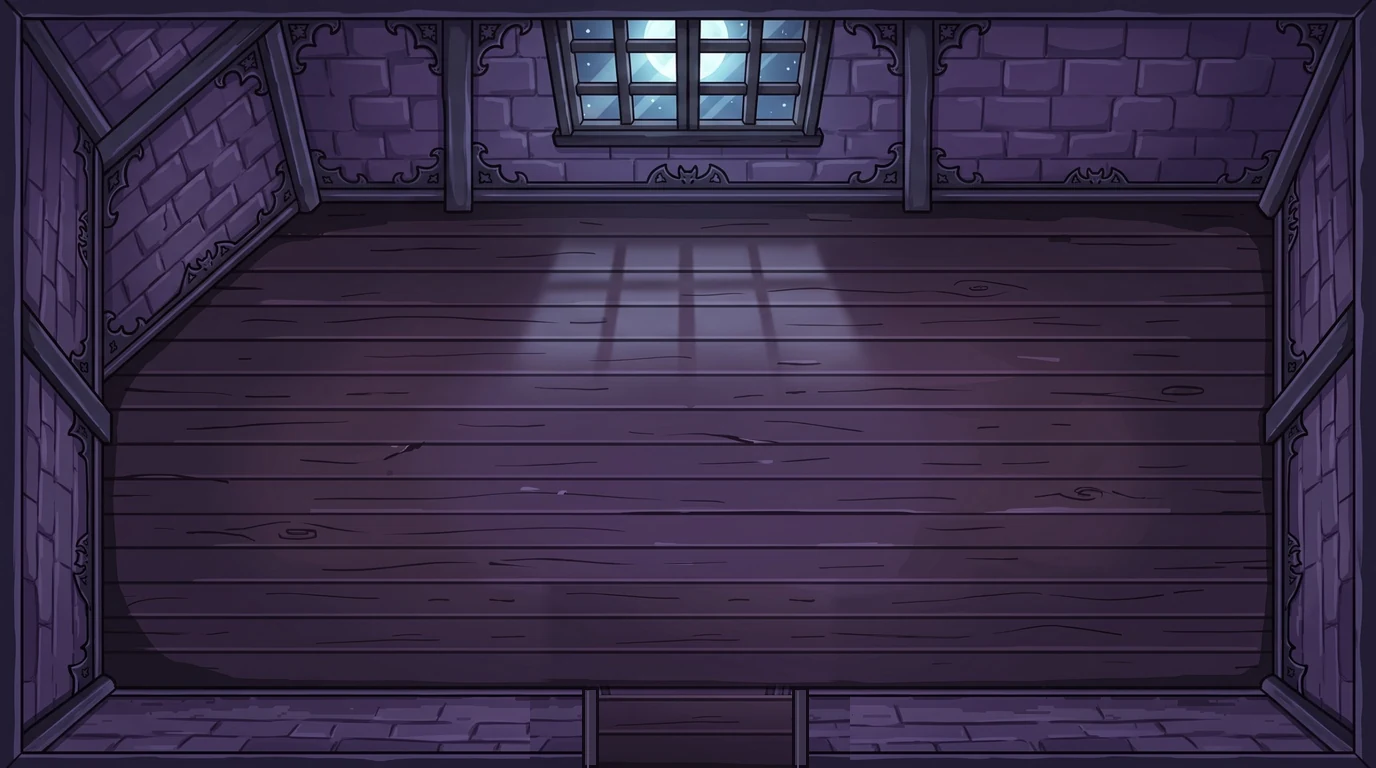
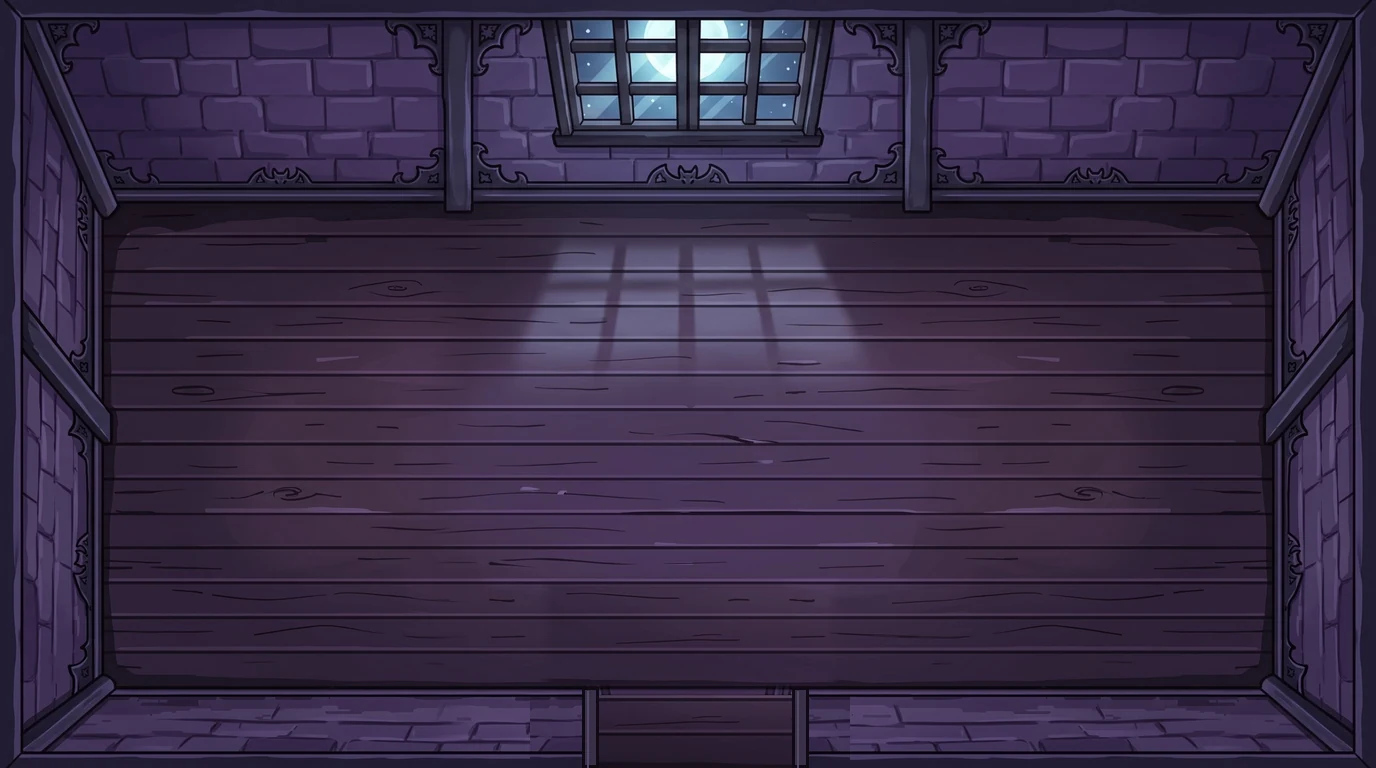
feat(jogo): quartos retangulares, quadros de insígnia comprados e Quadro dos Campeões (PROMPT-117)
- Quarto e os 6 temas retangulares e simétricos (sem a quebra no canto)
- Quadros de insígnia: sem automáticos (migração quadros_v2); comprados por 25 moedas, 1 por insígnia ganha, escolhendo a insígnia
- Quadro dos Campeões: liberado com as 26 insígnias, grade com todas elas, brilho com as 26 douradas; moldura em CSS até a imagem existir

diff --git a/css/jogo-revisao.css b/css/jogo-revisao.css
@@ -3372,3 +3372,27 @@ html.jr-deitado .venc-corpo { grid-template-columns: repeat(3, minmax(0, 1fr)); 
 .mp-exp-conf-perg { margin: 4px 0 0; text-align: center; font: 700 15px 'Inter', sans-serif; color: #fff; }
 .mp-exp-conf-botoes { display: flex; gap: 8px; justify-content: center; flex-wrap: wrap; }
 .mp-exp-conf-botoes .jr-btn { min-height: 40px; padding: 4px 14px; }
+
+/* ── 🏅 quadros comprados e 🏆 Quadro dos Campeões (PROMPT-117) ── */
+.cs-mini-quadro { position: relative; width: 46px; height: 46px; pointer-events: none; }
+.cs-mini-quadro img { width: 100%; height: 100%; object-fit: contain; }
+.cs-mini-quadro img.cs-ins { position: absolute; width: 62% !important; height: auto; transform: translate(-50%, -50%); }
+.cs-mini-camp, .lj-camp-mini { display: grid; place-items: center; width: 58px; height: 46px; border-radius: 8px; font-size: 24px;
+  background: #13204a; border: 4px solid #d9a521; box-shadow: inset 0 0 0 2px #8a5c0b; }
+.lj-quadro-ins { position: relative; display: block; width: 52px; height: 52px; }
+#jr-app .lj-quadro-ins img { width: 100%; height: 100%; object-fit: contain; }
+#jr-app .lj-quadro-ins img.cs-ins { position: absolute; width: 62%; height: auto; transform: translate(-50%, -50%); }
+.lj-item.apagado { opacity: .6; }
+/* moldura em CSS enquanto a imagem não existir: borda dourada larga e veludo azul-escuro */
+.cs-camp-moldura { position: absolute; inset: 0; border-radius: 14px; border: 7px solid transparent;
+  background: radial-gradient(ellipse at 50% 40%, #1d2e6b, #0d1638 75%) padding-box,
+    linear-gradient(135deg, #fff1a8, #d9a521 25%, #8a5c0b 50%, #f5cf4b 75%, #a8740f) border-box;
+  box-shadow: 0 4px 10px rgba(0,0,0,.5), inset 0 0 14px rgba(0,0,0,.6); }
+.cs-camp-grade { position: absolute; display: grid; gap: 2px; place-items: center; }
+.cs-camp-grade > * { width: 88%; height: 88%; object-fit: contain; }
+.cs-camp-ins.dourada { filter: drop-shadow(0 0 3px var(--jr-ouro)) saturate(1.3) brightness(1.08); }
+.cs-camp-vazio { border-radius: 50%; background: rgba(255,255,255,.06); }
+.cs-camp-trofeu { display: grid; place-items: center; font-size: 22px; line-height: 1; }
+.cs-camp-brilho .cs-camp-moldura, .cs-camp-brilho > img { animation: cs-camp-brilho 2.6s ease-in-out infinite; }
+@keyframes cs-camp-brilho { 50% { filter: drop-shadow(0 0 10px rgba(255,215,0,.85)) brightness(1.08); } }
+@media (prefers-reduced-motion: reduce) { .cs-camp-brilho .cs-camp-moldura, .cs-camp-brilho > img { animation: none; filter: drop-shadow(0 0 8px rgba(255,215,0,.7)); } }
